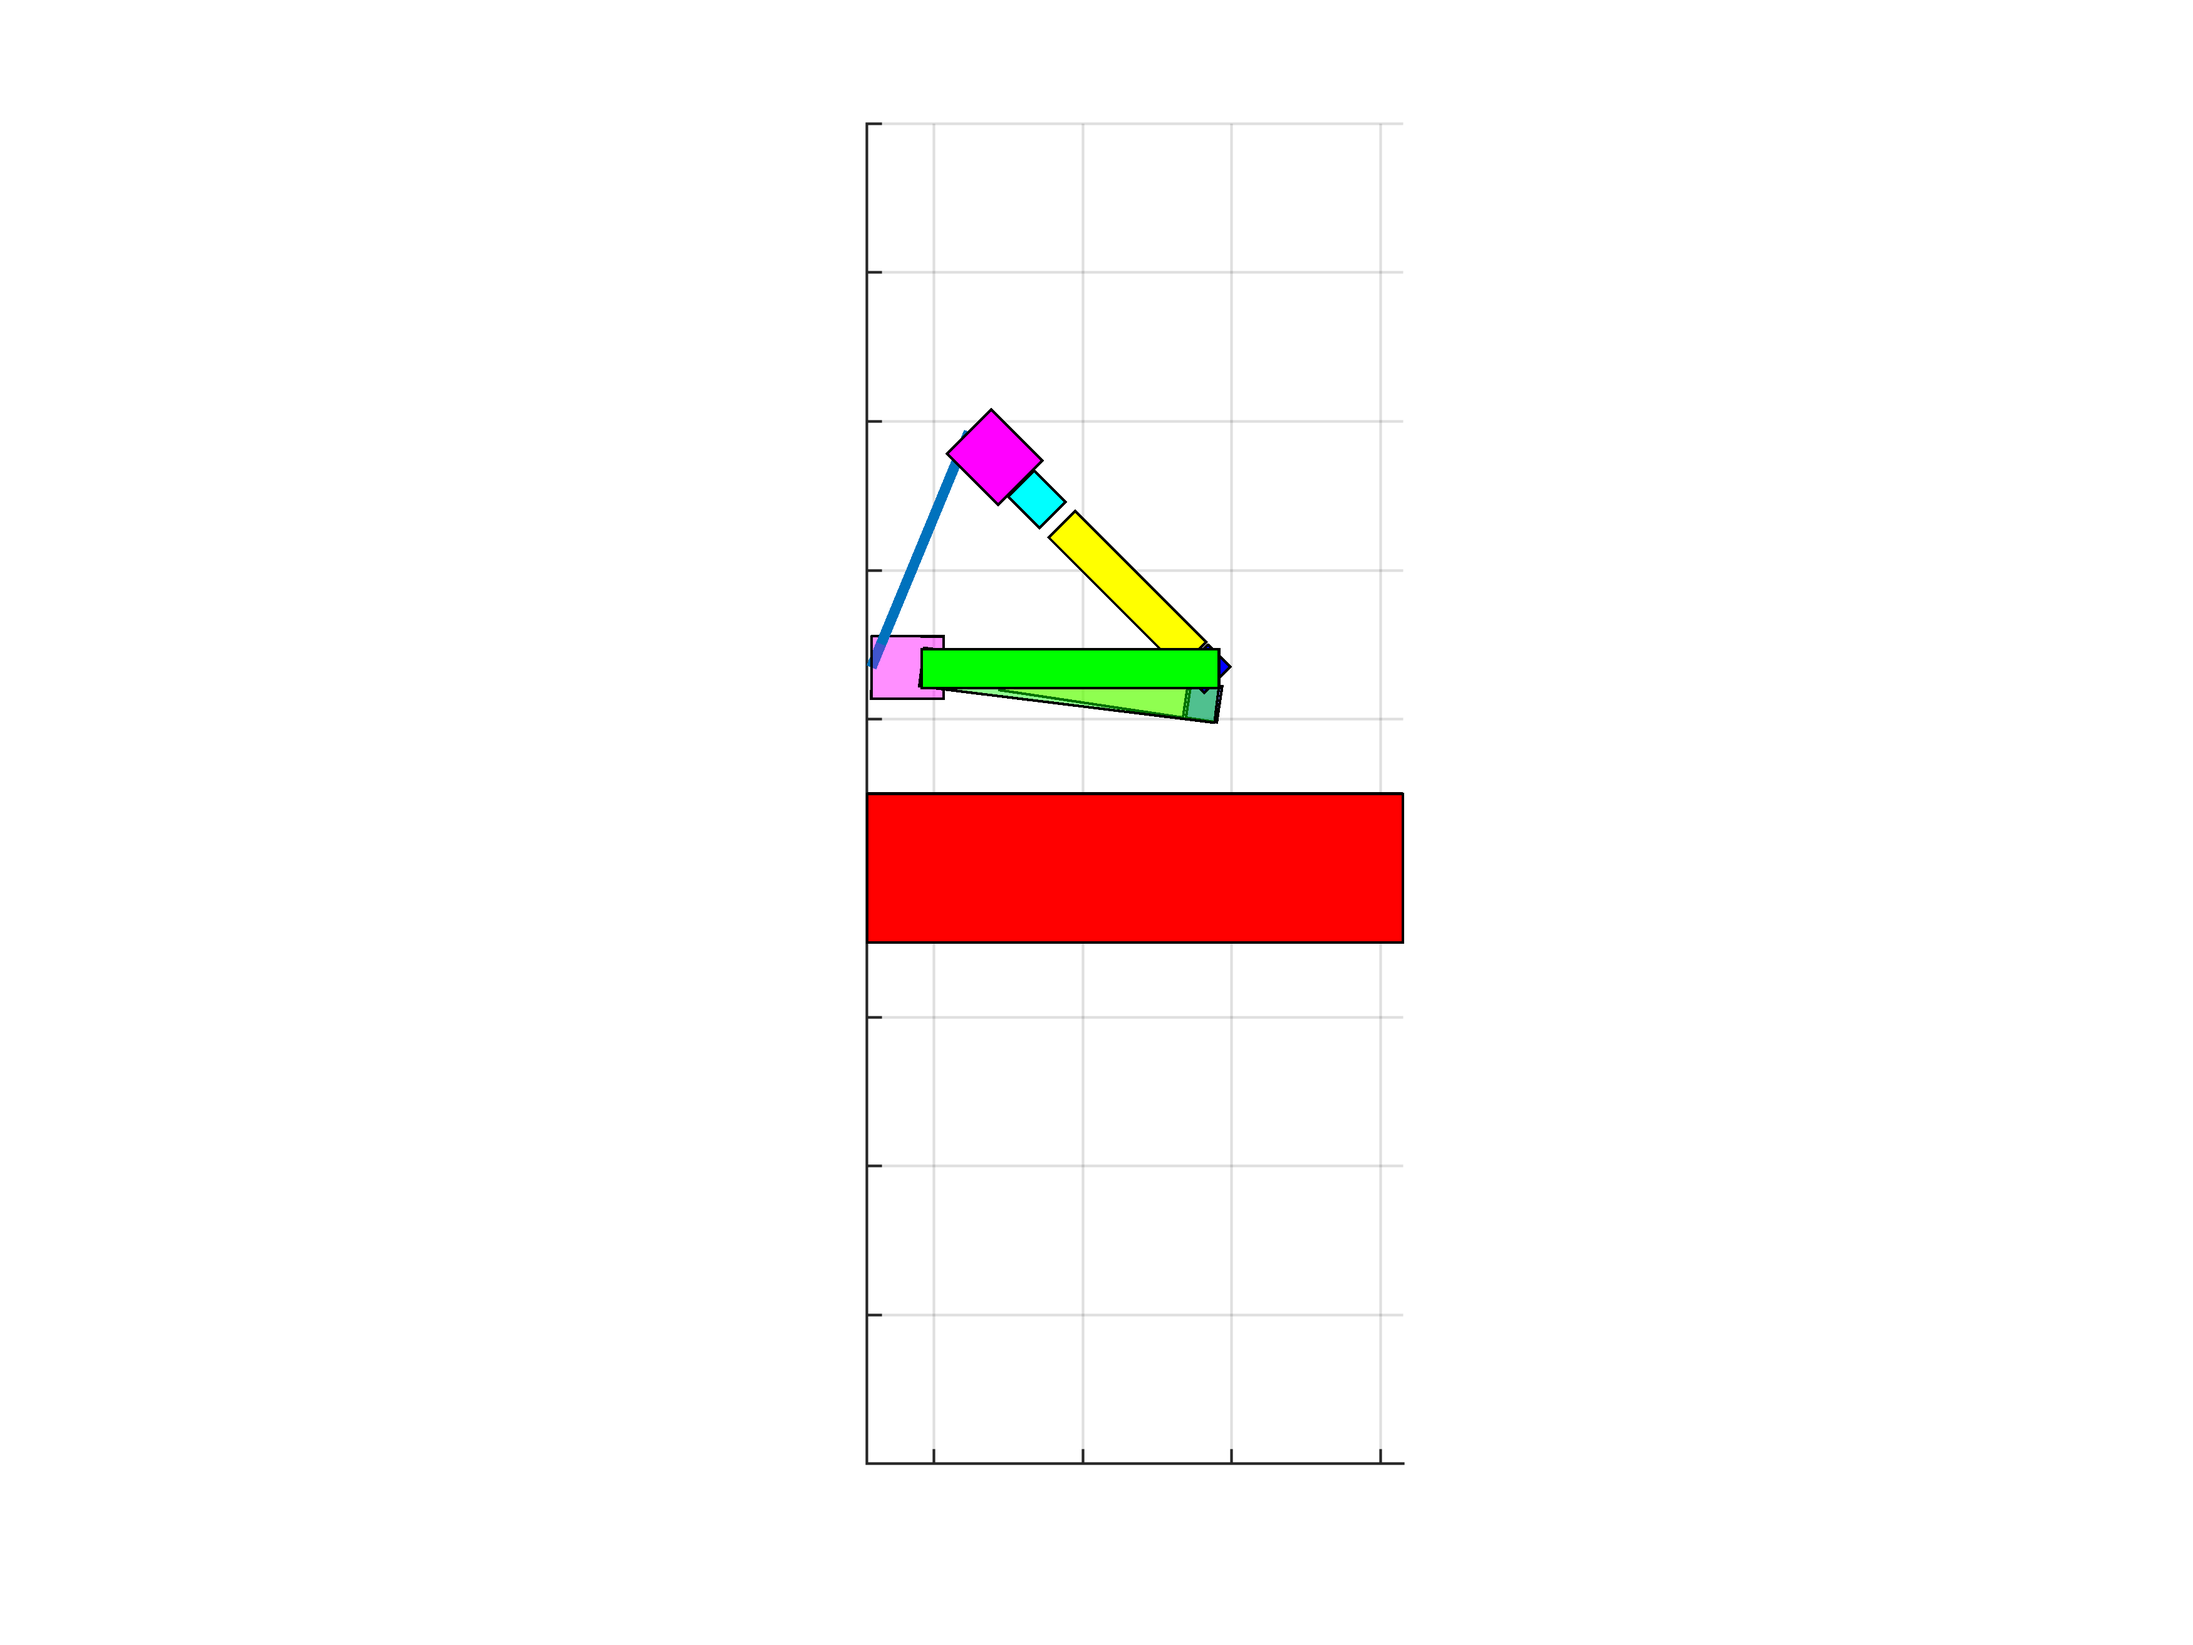
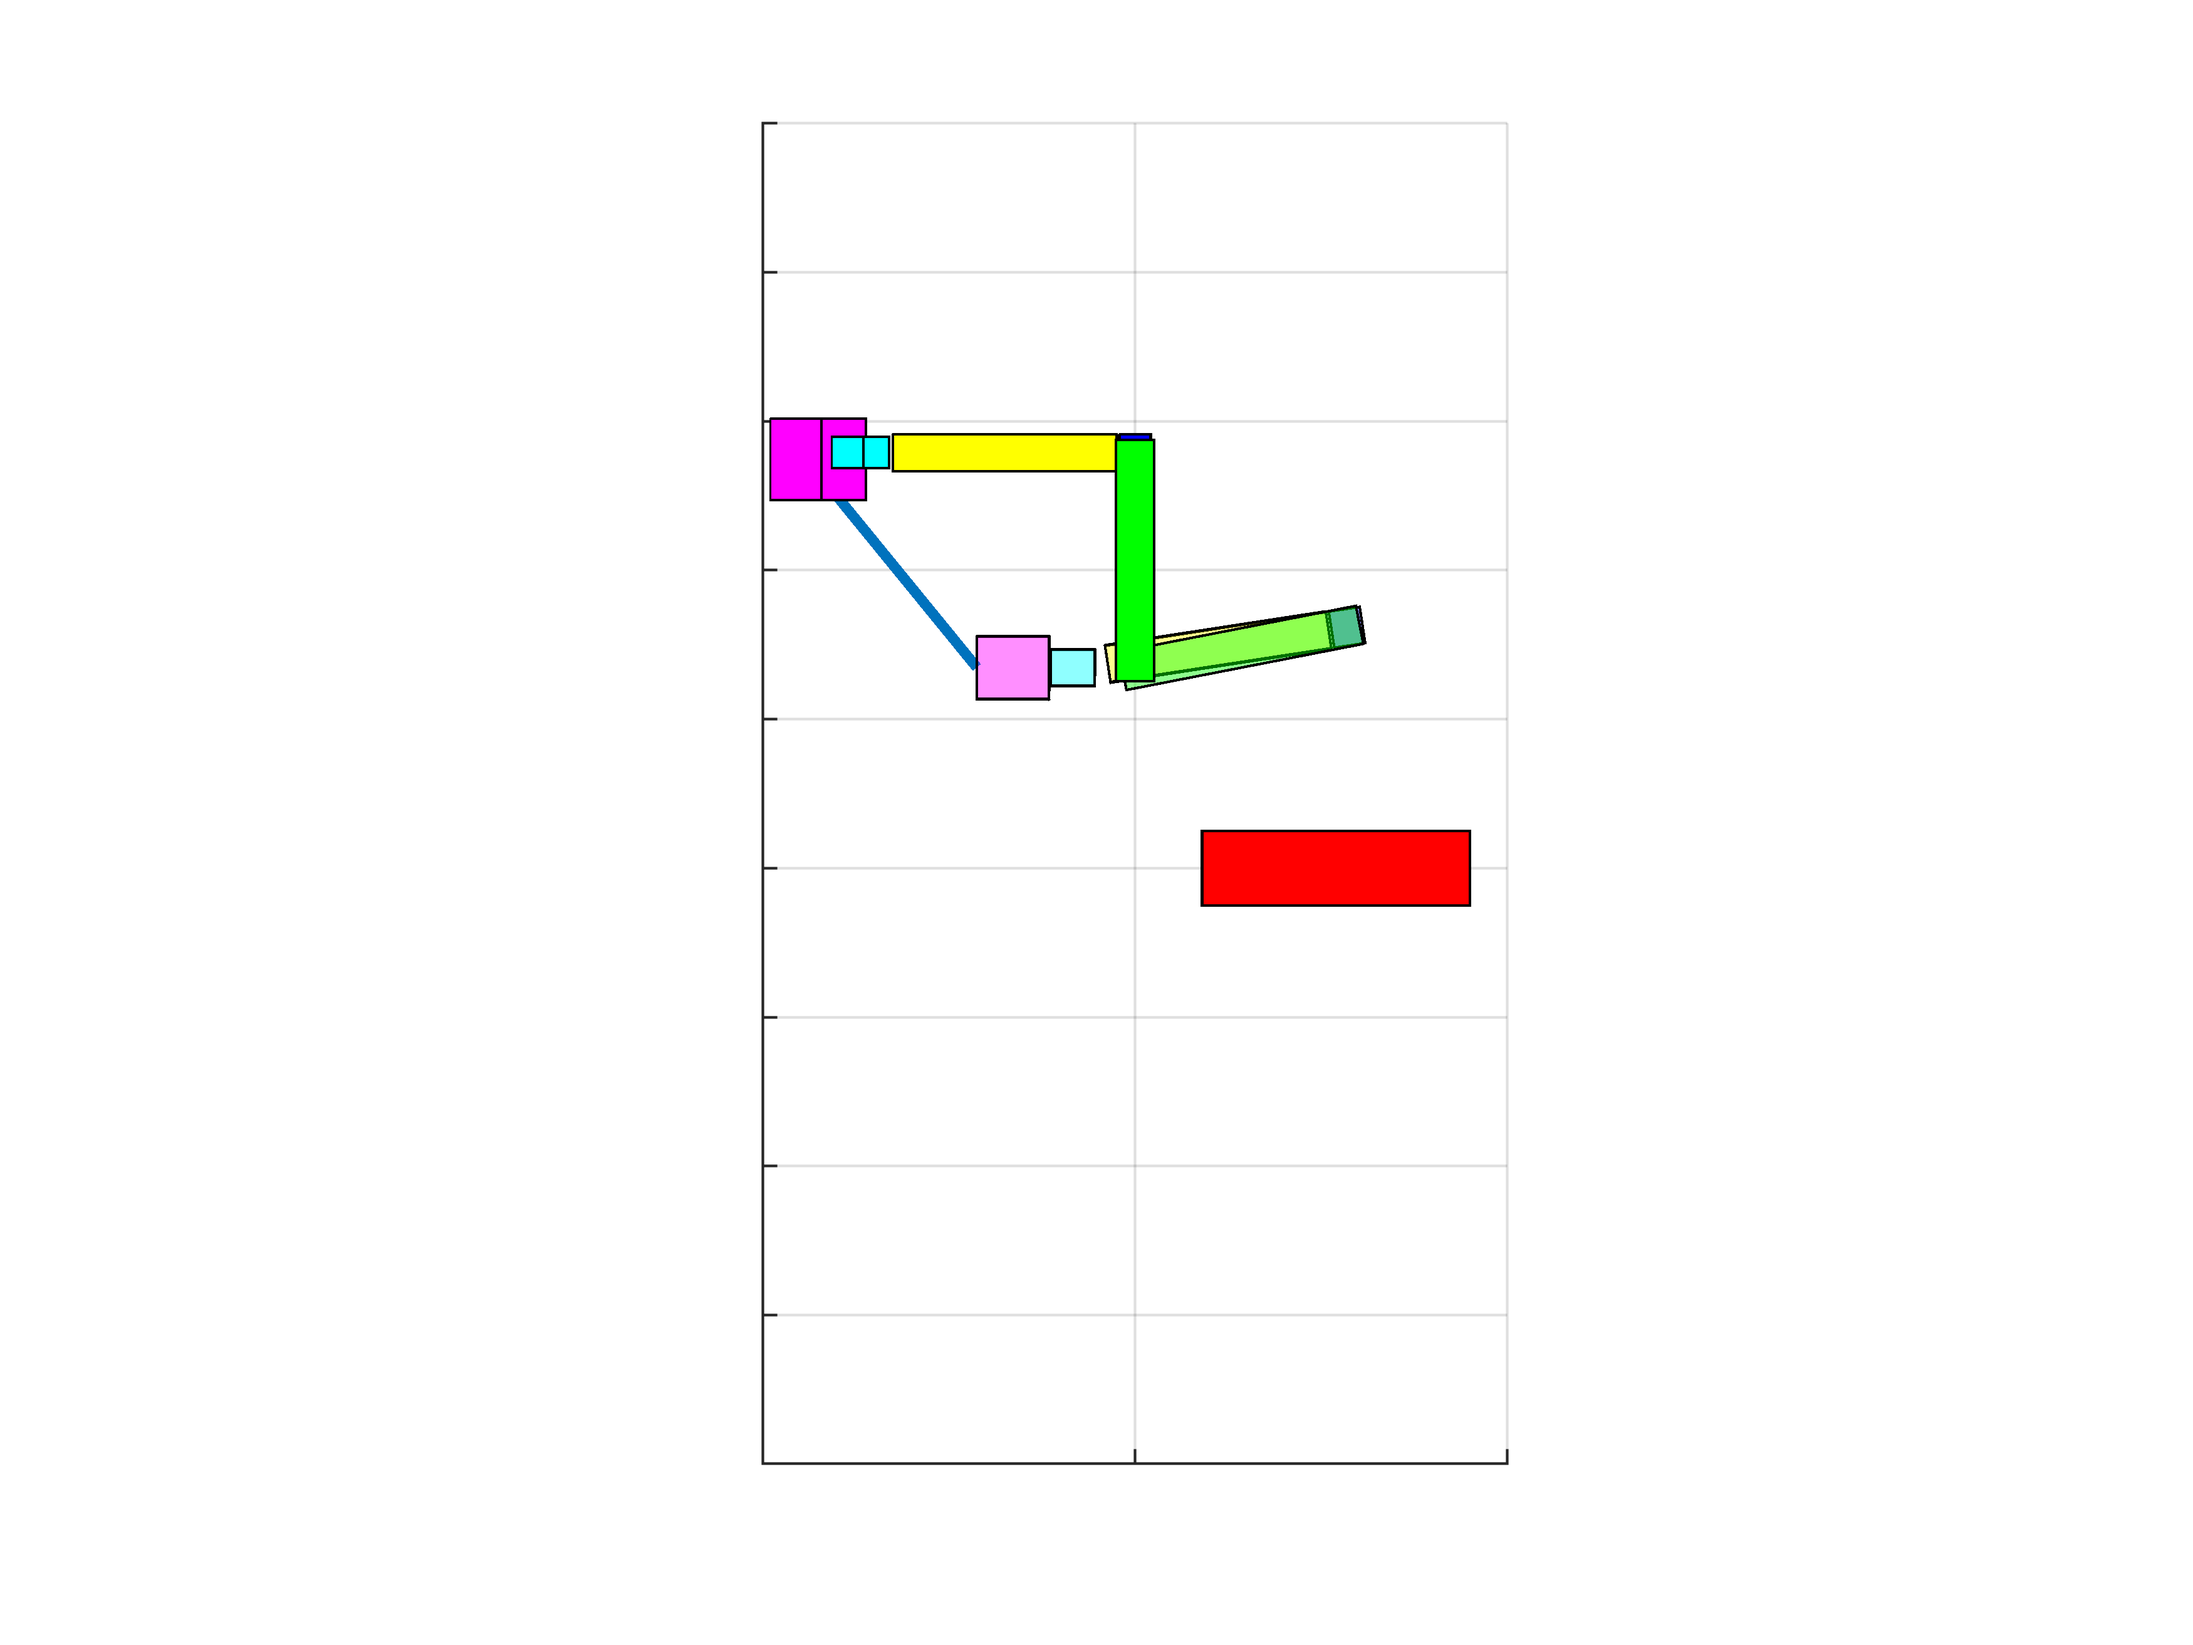
rectified straight line code

Changed region(s): [[0.3737, 0.4686, 0.6851, 0.5935], [0.3426, 0.2499, 0.6229, 0.4373]]

diff --git a/Robot-Arm-Control/cartesian_straight_line/straight_line_cartesian.m b/Robot-Arm-Control/cartesian_straight_line/straight_line_cartesian.m
@@ -17,14 +17,22 @@
 %    -0.0000    0.7071    0.7071    0.5863;
 %     1.0000   -0.0000    0.0000    0.5000;
 %          0         0         0    1.0000];
+
+% Td = [    0.0000    0.7071   -0.7071   -0.4089;
+%     0.7071    0.5000    0.5000    0.7142;
+%     0.7071   -0.5000   -0.5000    1.1752;
+%          0         0         0    1.0000];
+
 % [0 pi/4 -pi/4 0 0 0]
 % [0 0 -pi/4 0 0 0];
 % [0 pi/2 -pi/4 0 0 0]
 % [0 pi/2 -pi/3 0 pi/3 0]
+
 %df = 0.3, 0.7417, -2.16, -1.57, -1.57, -1.426
-qf = [0 pi/2 0 0 0 0];
+qf = [0.75;pi/2;-pi/2;pi/2;-pi/4;0];
 Td = forwardKinematicsAllJoints(qf);
 Td = Td(:,:,6);
+
 xf = Td(1:3, 4);
 
 % qi 0 0 -pi/4 0 0 0

diff --git a/Robot-Arm-Control/main.m b/Robot-Arm-Control/main.m
@@ -1,6 +1,7 @@
 clc
 clear
 close all
+addpath("cartesian_straight_line\","torque_files\","robot_kinematics\","plotting\","planning\")
 %%
 n_links=6;
 q = [0.75;pi/2;-pi/2;pi/2;-pi/4;0];
@@ -24,7 +25,7 @@ DH = @(q)[  pi/2        l11+q(1)    l12     0       0;
             -pi/2+q(6)  l5+l61      l62     0       1   ]; % DH Parameters
 
 % read mass and inertia from xlsx and store it in a mat file
-inertia = readmatrix('inertia.csv');
+inertia = readmatrix('./torque_files/inertia.csv');
 
 save('robot_description.mat','inertia','DH','l11','l12','l21','l22','l3','l4','l5','l61','l62','n_links')
 

diff --git a/Robot-Arm-Control/robot_kinematics/visualize_trajectory.m b/Robot-Arm-Control/robot_kinematics/visualize_trajectory.m
@@ -14,7 +14,7 @@ function [success]=visualize_trajectory(waypoints)
         for j=1:n_links     
             ylim([-0.1 1.3])
             xlim([-0.8,0.8])
-            zlim([0.1 1])
+            zlim([0.1 1.2])
             show(collision_boxes{j})
             hold on
         end

diff --git a/Robot-Arm-Control/plotting/eef_3d_plot.m b/Robot-Arm-Control/plotting/eef_3d_plot.m
@@ -1,6 +1,6 @@
 % define figure properties
 opts.Colors     = get(groot,'defaultAxesColorOrder');
-opts.saveFolder = 'plotting/img/';
+opts.saveFolder = 'plotting/planning_img/';
 opts.width      = 8;
 opts.height     = 6;
 opts.fontType   = 'Times';

diff --git a/README.md b/README.md
@@ -1,13 +1,28 @@
 # InterIIT MidPrep: Robotic Charging Challenge
-- CAD and Analysis
+
+- ### Assumptions:
+1. Custom socket manufacturing
+2. Servo control forevery motor
+3. Neglecting friction losees in torque calculation
+4. Four leds at the four cotrner of the charging socket on the car
+
+- ### Power consumption for charging cycle ~ 70 J
+- The mounting point wrt task space is shown in `/results/planning/workspace.png`.
+- The working model of simscape environment animation is in `/results/simscape/videos/simscapeModel.avi`.
+- MATLAB 3D world render showing complete cycle animation is in `/results/simscape/videos/MATLAB3D.avi`.
+- Bill of materials is in `/CAD and analysis/Bill of Materials/`.
+- Power consumption for multiple trajectories and the trajectory plots is in `/results/planning/energy_consumption_for_join_space_trajectories.png`.
+- Pictures of the CAD model are present in `/results/CAD/`.
+
+### The Submission zip has this structure
+
+## 1. `Code files`
+
 - Planning
 - CV
 - Simulation
 
-## CAD and Analysis
-This folder has the main assembly file named `Solid model/jlr_robotic_charging_station.STEP` . The FEM results are included in `FEMSimulation(Ansys)` folder. The BOM and the supporting docs are available in `bill of materials`.
-
-## Planning
+### Planning
 - The folder `Robot-Arm-Control` contains MATLAB files used for path planning and robot arm characterization.
 - `main.m` is used to initialize the robot DH parameters and collision boxes.
 - `/RobotKinematics` contains files for forward and inverse kinematics, collision detection and transformation matrices.
@@ -16,15 +31,25 @@ This folder has the main assembly file named `Solid model/jlr_robotic_charging_s
 - `/torque_files` contains files used for computing torques for any configuration and kinematics.
 - `/plotting` contains all the scripts used for generating plots.
 
-## CV
+### CV
+- Load the `best.pt` weight file using the command ```model = torch.hub.load('ultralytics/yolov5', 'custom', path = {Path to 'best.pt' file} , force_reload=True)```
  - `/CV.py` It is a function which takes a loaded model, frame of the video and outputs coordinates of 4 points wrt to camera frame that has to be preloaded.
  - Monocular camera trajecrtory obtaining depths of 4 key point in mm
- - `/Stereo` and `/Monocular` contains all the files for location estimation for circle, straight line and parallel using stereo and monocular estimations respectively.
+ - `/Monocular` contains all the files for location estimation for circle, straight line and parallel using stereo and monocular estimations respectively. These codes were used to generate plots and animations to verify position and orientation results. Assumption: normal vectors of plane of charging port and camera plane are coplanar.
+ - `Stereo/stereo_depth_sift.py` is the pipeline for the stereo depth estimation. Feature matching is done on the resized image using YOLO model using SIFT algorithm to calculate depth of the keypoints.
+ - `Stereo/stereo.py` Feature matching is done using color thresholding and pose estimation of all keypoints is being done.
 
 
 
-## Simulation
-- `/Simscape Simulation` contains all the models and the dependent files for simulating the trajectory of the robot arm from any initial point to final point.
+### Simulation
+- `/Simscape Simulation` contains all the models and the dependent files for simulating the trajectory of the robot arm from any initial point to final point, where initial point is the current coniguration of the robot in joint space and desired/final point is provided as a transformation matrix from ground frame at the base of link 1 to desired pose.
 - In order to initiate the simulation, update the initial and final desired positions in `waypointGeneration.m` file. After running this script, run the `finalSimscapeModel.slx` model.
 - The remaining files and folders contains the supporting files and models for running the Simscape model.
 - The simulink model also launches the MATLAB 3D world, which was used for visualization and generating images for training the YOLO detection model.
+
+## 2. `CAD and Analysis`
+This folder has the main assembly file named `Solid model/jlr_robotic_charging_station.STEP` . The FEM results are included in `FEMSimulation(Ansys)` folder. The BOM and the supporting docs are available in `bill of materials`.
+
+## 3. `Results`
+All the animation and plots are contained in the respective folders.
+
